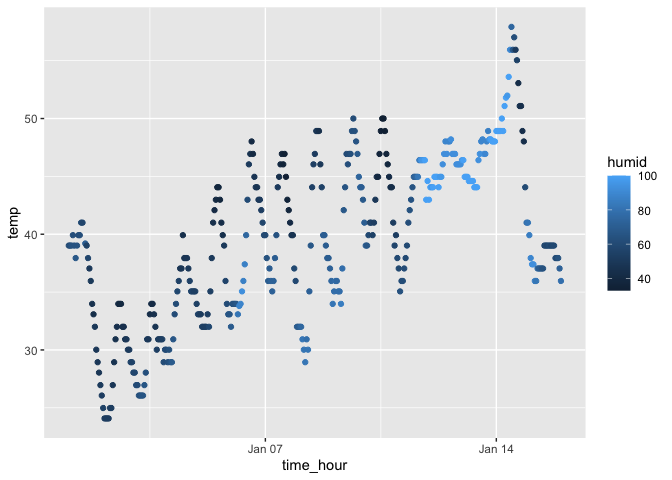
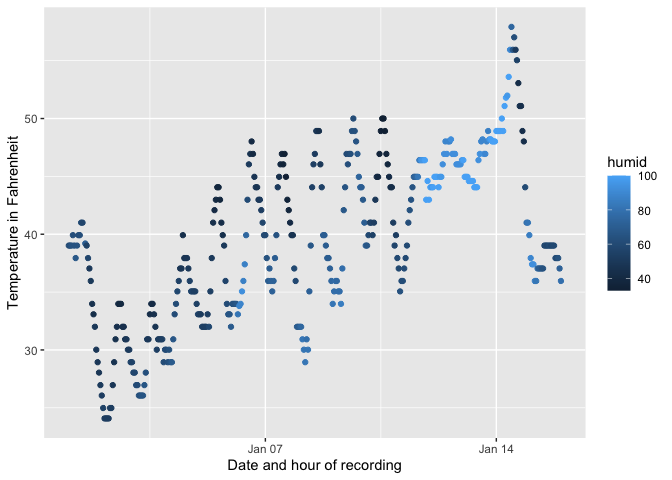
Edited scatterplot description and added axis labels

Changed region(s): [[0.3438, 0.9375, 0.5938, 1.0], [0.0, 0.2812, 0.0312, 0.6562]]

diff --git a/p8105_hw1_lvr2115.md b/p8105_hw1_lvr2115.md
@@ -43,6 +43,8 @@ str(early_january_weather)
     ##  $ visib     : num [1:358] 10 10 10 10 10 10 10 10 10 10 ...
     ##  $ time_hour : POSIXct[1:358], format: "2013-01-01 01:00:00" "2013-01-01 02:00:00" ...
 
+## Description of this dataset
+
 The dataset is a subset of hourly meterological data from LGA, JFK, and
 EWR airports for January 2013. This dataset 358 rows and 15 columns. The
 15 variables are day, dewp, hour, humid, month, origin, precip,
@@ -50,14 +52,16 @@ pressure, temp, time_hour, visib, wind_dir, wind_gust, wind_speed, year.
 
 The mean of the temperature variable is 39.5821229.
 
-This is a scatterplot showing the temperature at different hours during
-days in early January. The color of the data point shows the humidity.
-It is apparent that temperature fluctuates during the day and
-temperatures increase during the second week and. third week of january
-compared to the first.
+This scatterplot showing the temperature at different hours of the day
+between January 1 and January 15. The color of the data point shows the
+relative humidity recorded at the same time and day. It is apparent that
+temperature fluctuates during the day, temperatures increase during the
+second week and compared to the first week. Humidity levels and
+temperatures are both higher on and around January 14.
 
 ``` r
-ggplot(early_january_weather, aes(x = time_hour, y = temp, color = humid)) + geom_point()
+ggplot(early_january_weather, aes(x = time_hour, y = temp, color = humid)) + geom_point() +
+  xlab("Date and hour of recording") +ylab("Temperature in Fahrenheit")
 ```
 
 ![](p8105_hw1_lvr2115_files/figure-gfm/scatterplot-1.png)<!-- -->
@@ -95,14 +99,14 @@ mean_samp = mean(pull(new_df, samp))
   mean_samp
 ```
 
-    ## [1] -0.1792869
+    ## [1] -0.1290031
 
 ``` r
 mean_log = mean(pull(new_df, vec_logical))
   mean_log
 ```
 
-    ## [1] 0.3
+    ## [1] 0.2
 
 ``` r
 mean_char = mean(pull(new_df, vec_char))
@@ -128,7 +132,7 @@ supported.
 as.numeric(pull(new_df,vec_logical))
 ```
 
-    ##  [1] 1 0 1 1 0 0 0 0 0 0
+    ##  [1] 0 1 0 0 1 0 0 0 0 0
 
 ``` r
 as.numeric(pull(new_df,vec_char))
